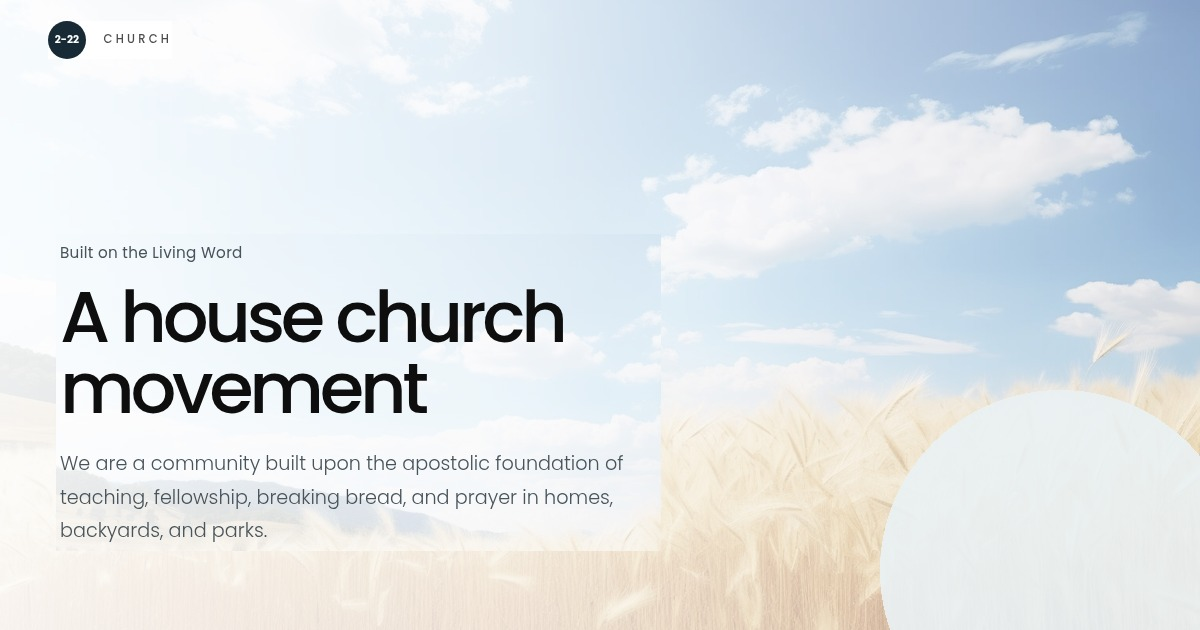
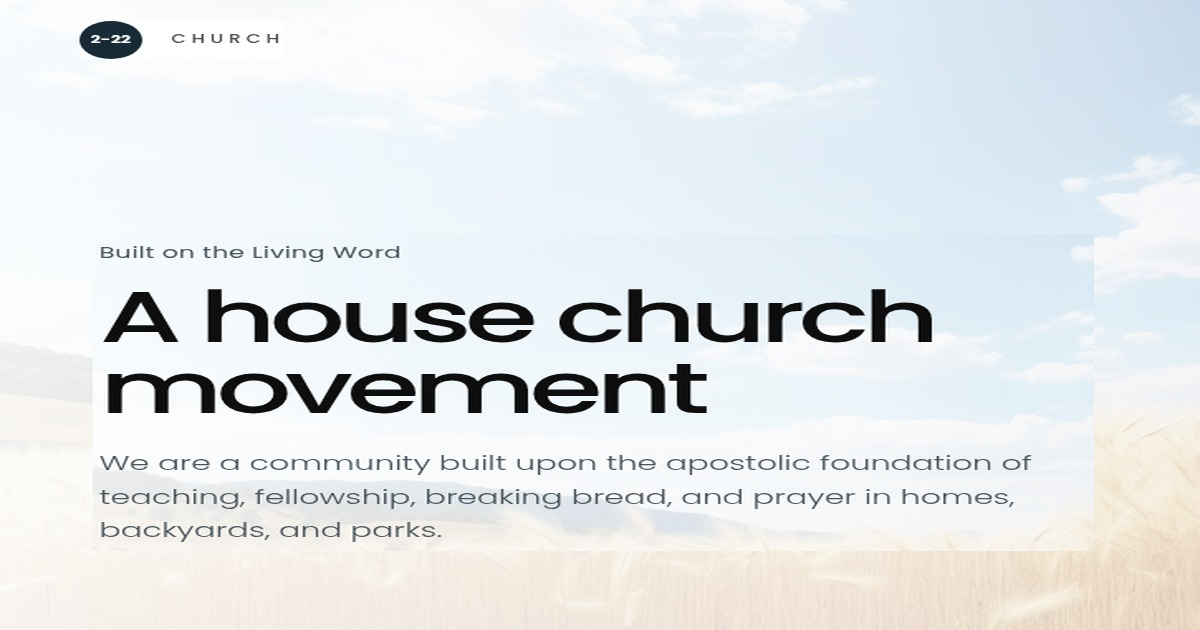
Crop OG thumbnail from left through hero text with margin
After compositing live logo and tagline screenshots, crop the frame from
the left edge to just past the text block, then scale to 1200x630 so the
preview fills with content instead of empty wheat field. Bump cache to v=4.

diff --git a/articles.html b/articles.html
@@ -11,13 +11,13 @@
 <meta property="og:title" content="Articles, 2:22 Church">
 <meta property="og:description" content="Reflections on Scripture, community, service, and the living faith we are still learning to walk.">
 <meta property="og:url" content="https://2-22church.com/articles.html">
-<meta property="og:image" content="https://2-22church.com/og-image.jpg?v=3">
+<meta property="og:image" content="https://2-22church.com/og-image.jpg?v=4">
 <meta property="og:image:width" content="1200">
 <meta property="og:image:height" content="630">
 <meta name="twitter:card" content="summary_large_image">
 <meta name="twitter:title" content="Articles, 2:22 Church">
 <meta name="twitter:description" content="Reflections on Scripture, community, service, and the living faith we are still learning to walk.">
-<meta name="twitter:image" content="https://2-22church.com/og-image.jpg?v=3">
+<meta name="twitter:image" content="https://2-22church.com/og-image.jpg?v=4">
 <!-- social-meta:end -->
 <title>Articles, 2:22 Church</title>
 <link rel="icon" type="image/svg+xml" href="favicon.svg?v=2">

diff --git a/blog.html b/blog.html
@@ -11,13 +11,13 @@
 <meta property="og:title" content="Blog, 2:22 Church">
 <meta property="og:description" content="Weekly word and teaching from 2:22 Church.">
 <meta property="og:url" content="https://2-22church.com/blog.html">
-<meta property="og:image" content="https://2-22church.com/og-image.jpg?v=3">
+<meta property="og:image" content="https://2-22church.com/og-image.jpg?v=4">
 <meta property="og:image:width" content="1200">
 <meta property="og:image:height" content="630">
 <meta name="twitter:card" content="summary_large_image">
 <meta name="twitter:title" content="Blog, 2:22 Church">
 <meta name="twitter:description" content="Weekly word and teaching from 2:22 Church.">
-<meta name="twitter:image" content="https://2-22church.com/og-image.jpg?v=3">
+<meta name="twitter:image" content="https://2-22church.com/og-image.jpg?v=4">
 <!-- social-meta:end -->
 <title>Blog, 2:22 Church</title>
 <link rel="icon" type="image/svg+xml" href="favicon.svg?v=2">

diff --git a/blogs.html b/blogs.html
@@ -11,13 +11,13 @@
 <meta property="og:title" content="Blogs, 2:22 Church">
 <meta property="og:description" content="Personal testimony, reflection, and honest writing from the 2:22 Church community.">
 <meta property="og:url" content="https://2-22church.com/blogs.html">
-<meta property="og:image" content="https://2-22church.com/og-image.jpg?v=3">
+<meta property="og:image" content="https://2-22church.com/og-image.jpg?v=4">
 <meta property="og:image:width" content="1200">
 <meta property="og:image:height" content="630">
 <meta name="twitter:card" content="summary_large_image">
 <meta name="twitter:title" content="Blogs, 2:22 Church">
 <meta name="twitter:description" content="Personal testimony, reflection, and honest writing from the 2:22 Church community.">
-<meta name="twitter:image" content="https://2-22church.com/og-image.jpg?v=3">
+<meta name="twitter:image" content="https://2-22church.com/og-image.jpg?v=4">
 <!-- social-meta:end -->
 <title>Blogs, 2:22 Church</title>
 <link rel="icon" type="image/svg+xml" href="favicon.svg?v=2">

diff --git a/cosmology.html b/cosmology.html
@@ -11,13 +11,13 @@
 <meta property="og:title" content="Biblical Cosmology, 2:22 Church">
 <meta property="og:description" content="Study of the firmament, the circle of the earth, and what Scripture says about creation.">
 <meta property="og:url" content="https://2-22church.com/cosmology.html">
-<meta property="og:image" content="https://2-22church.com/og-image.jpg?v=3">
+<meta property="og:image" content="https://2-22church.com/og-image.jpg?v=4">
 <meta property="og:image:width" content="1200">
 <meta property="og:image:height" content="630">
 <meta name="twitter:card" content="summary_large_image">
 <meta name="twitter:title" content="Biblical Cosmology, 2:22 Church">
 <meta name="twitter:description" content="Study of the firmament, the circle of the earth, and what Scripture says about creation.">
-<meta name="twitter:image" content="https://2-22church.com/og-image.jpg?v=3">
+<meta name="twitter:image" content="https://2-22church.com/og-image.jpg?v=4">
 <!-- social-meta:end -->
 <title>Biblical Cosmology, 2:22 Church</title>
 <link rel="stylesheet" href="style.css?v=7">

diff --git a/gatherings.html b/gatherings.html
@@ -11,13 +11,13 @@
 <meta property="og:title" content="Gatherings, 2:22 Church">
 <meta property="og:description" content="How we gather in homes and open places, the apostolic pattern without buildings or hierarchy.">
 <meta property="og:url" content="https://2-22church.com/gatherings.html">
-<meta property="og:image" content="https://2-22church.com/og-image.jpg?v=3">
+<meta property="og:image" content="https://2-22church.com/og-image.jpg?v=4">
 <meta property="og:image:width" content="1200">
 <meta property="og:image:height" content="630">
 <meta name="twitter:card" content="summary_large_image">
 <meta name="twitter:title" content="Gatherings, 2:22 Church">
 <meta name="twitter:description" content="How we gather in homes and open places, the apostolic pattern without buildings or hierarchy.">
-<meta name="twitter:image" content="https://2-22church.com/og-image.jpg?v=3">
+<meta name="twitter:image" content="https://2-22church.com/og-image.jpg?v=4">
 <!-- social-meta:end -->
 <title>Gatherings, 2:22 Church</title>
 <link rel="icon" type="image/svg+xml" href="favicon.svg?v=2">

diff --git a/heavenly-jerusalem.html b/heavenly-jerusalem.html
@@ -11,13 +11,13 @@
 <meta property="og:title" content="Heavenly Jerusalem, 2:22 Church">
 <meta property="og:description" content="The city-dwelling pattern from Ezekiel to Revelation.">
 <meta property="og:url" content="https://2-22church.com/heavenly-jerusalem.html">
-<meta property="og:image" content="https://2-22church.com/og-image.jpg?v=3">
+<meta property="og:image" content="https://2-22church.com/og-image.jpg?v=4">
 <meta property="og:image:width" content="1200">
 <meta property="og:image:height" content="630">
 <meta name="twitter:card" content="summary_large_image">
 <meta name="twitter:title" content="Heavenly Jerusalem, 2:22 Church">
 <meta name="twitter:description" content="The city-dwelling pattern from Ezekiel to Revelation.">
-<meta name="twitter:image" content="https://2-22church.com/og-image.jpg?v=3">
+<meta name="twitter:image" content="https://2-22church.com/og-image.jpg?v=4">
 <!-- social-meta:end -->
 <title>Heavenly Jerusalem Study · 2:22 Church</title>
 <link rel="stylesheet" href="style.css?v=7">

diff --git a/index.html b/index.html
@@ -11,13 +11,13 @@
 <meta property="og:title" content="2:22 Church, Built on the Living Word">
 <meta property="og:description" content="A community rooted in the living Word, gathered around Jesus Christ, built on apostolic teaching, with no walls and no hierarchy, just people.">
 <meta property="og:url" content="https://2-22church.com/index.html">
-<meta property="og:image" content="https://2-22church.com/og-image.jpg?v=3">
+<meta property="og:image" content="https://2-22church.com/og-image.jpg?v=4">
 <meta property="og:image:width" content="1200">
 <meta property="og:image:height" content="630">
 <meta name="twitter:card" content="summary_large_image">
 <meta name="twitter:title" content="2:22 Church, Built on the Living Word">
 <meta name="twitter:description" content="A community rooted in the living Word, gathered around Jesus Christ, built on apostolic teaching, with no walls and no hierarchy, just people.">
-<meta name="twitter:image" content="https://2-22church.com/og-image.jpg?v=3">
+<meta name="twitter:image" content="https://2-22church.com/og-image.jpg?v=4">
 <!-- social-meta:end -->
 <title>2:22 Church, Built on the Living Word</title>
 <link rel="icon" type="image/svg+xml" href="favicon.svg?v=2">

diff --git a/noahs-ark.html b/noahs-ark.html
@@ -11,13 +11,13 @@
 <meta property="og:title" content="Noah&#x27;s Ark, 2:22 Church">
 <meta property="og:description" content="Renformation Project Arc and the curved-vessel reading of Genesis 6.">
 <meta property="og:url" content="https://2-22church.com/noahs-ark.html">
-<meta property="og:image" content="https://2-22church.com/og-image.jpg?v=3">
+<meta property="og:image" content="https://2-22church.com/og-image.jpg?v=4">
 <meta property="og:image:width" content="1200">
 <meta property="og:image:height" content="630">
 <meta name="twitter:card" content="summary_large_image">
 <meta name="twitter:title" content="Noah&#x27;s Ark, 2:22 Church">
 <meta name="twitter:description" content="Renformation Project Arc and the curved-vessel reading of Genesis 6.">
-<meta name="twitter:image" content="https://2-22church.com/og-image.jpg?v=3">
+<meta name="twitter:image" content="https://2-22church.com/og-image.jpg?v=4">
 <!-- social-meta:end -->
 <title>Noah's Ark Study · 2:22 Church</title>
 <link rel="stylesheet" href="style.css?v=7">

diff --git a/og-samples.html b/og-samples.html
@@ -21,8 +21,8 @@ h1{font-size:1.8rem;font-weight:300;margin-bottom:0.4rem;}
   <h1>Live landing page thumbnail</h1>
   <p class="lead">Built from the live homepage: hero background plus screenshot crops of the nav logo and hero tagline (kicker, title, subtitle). This is what chat and search apps should show for <strong>2-22church.com</strong>.</p>
   <div class="card">
-    <img src="og-image.jpg?v=3" alt="2:22 Church landing page social preview thumbnail" width="1200" height="630">
-    <a class="link" href="og-image.jpg?v=3" target="_blank" rel="noopener">Open full image</a>
+    <img src="og-image.jpg?v=4" alt="2:22 Church landing page social preview thumbnail" width="1200" height="630">
+    <a class="link" href="og-image.jpg?v=4" target="_blank" rel="noopener">Open full image</a>
   </div>
 </div>
 </body>

diff --git a/old-maps.html b/old-maps.html
@@ -11,13 +11,13 @@
 <meta property="og:title" content="Old Maps, 2:22 Church">
 <meta property="og:description" content="Historical maps and the biblical earth.">
 <meta property="og:url" content="https://2-22church.com/old-maps.html">
-<meta property="og:image" content="https://2-22church.com/og-image.jpg?v=3">
+<meta property="og:image" content="https://2-22church.com/og-image.jpg?v=4">
 <meta property="og:image:width" content="1200">
 <meta property="og:image:height" content="630">
 <meta name="twitter:card" content="summary_large_image">
 <meta name="twitter:title" content="Old Maps, 2:22 Church">
 <meta name="twitter:description" content="Historical maps and the biblical earth.">
-<meta name="twitter:image" content="https://2-22church.com/og-image.jpg?v=3">
+<meta name="twitter:image" content="https://2-22church.com/og-image.jpg?v=4">
 <!-- social-meta:end -->
 <title>Old Maps, 2:22 Church</title>
 <link rel="stylesheet" href="style.css?v=7">

diff --git a/our-story.html b/our-story.html
@@ -11,13 +11,13 @@
 <meta property="og:title" content="Our Story, 2:22 Church">
 <meta property="og:description" content="How 2:22 Church began and why we carry a burden for truth outside institutional religion.">
 <meta property="og:url" content="https://2-22church.com/our-story.html">
-<meta property="og:image" content="https://2-22church.com/og-image.jpg?v=3">
+<meta property="og:image" content="https://2-22church.com/og-image.jpg?v=4">
 <meta property="og:image:width" content="1200">
 <meta property="og:image:height" content="630">
 <meta name="twitter:card" content="summary_large_image">
 <meta name="twitter:title" content="Our Story, 2:22 Church">
 <meta name="twitter:description" content="How 2:22 Church began and why we carry a burden for truth outside institutional religion.">
-<meta name="twitter:image" content="https://2-22church.com/og-image.jpg?v=3">
+<meta name="twitter:image" content="https://2-22church.com/og-image.jpg?v=4">
 <!-- social-meta:end -->
 <title>Our Story - 2:22 Church</title>
 <link rel="icon" type="image/svg+xml" href="favicon.svg?v=2">

diff --git a/post.html b/post.html
@@ -11,13 +11,13 @@
 <meta property="og:title" content="Articles, 2:22 Church">
 <meta property="og:description" content="Teaching, testimony, and study articles from 2:22 Church.">
 <meta property="og:url" content="https://2-22church.com/post.html">
-<meta property="og:image" content="https://2-22church.com/og-image.jpg?v=3">
+<meta property="og:image" content="https://2-22church.com/og-image.jpg?v=4">
 <meta property="og:image:width" content="1200">
 <meta property="og:image:height" content="630">
 <meta name="twitter:card" content="summary_large_image">
 <meta name="twitter:title" content="Articles, 2:22 Church">
 <meta name="twitter:description" content="Teaching, testimony, and study articles from 2:22 Church.">
-<meta name="twitter:image" content="https://2-22church.com/og-image.jpg?v=3">
+<meta name="twitter:image" content="https://2-22church.com/og-image.jpg?v=4">
 <!-- social-meta:end -->
 <title>Post, 2:22 Church</title>
 <link rel="icon" type="image/svg+xml" href="favicon.svg?v=2">